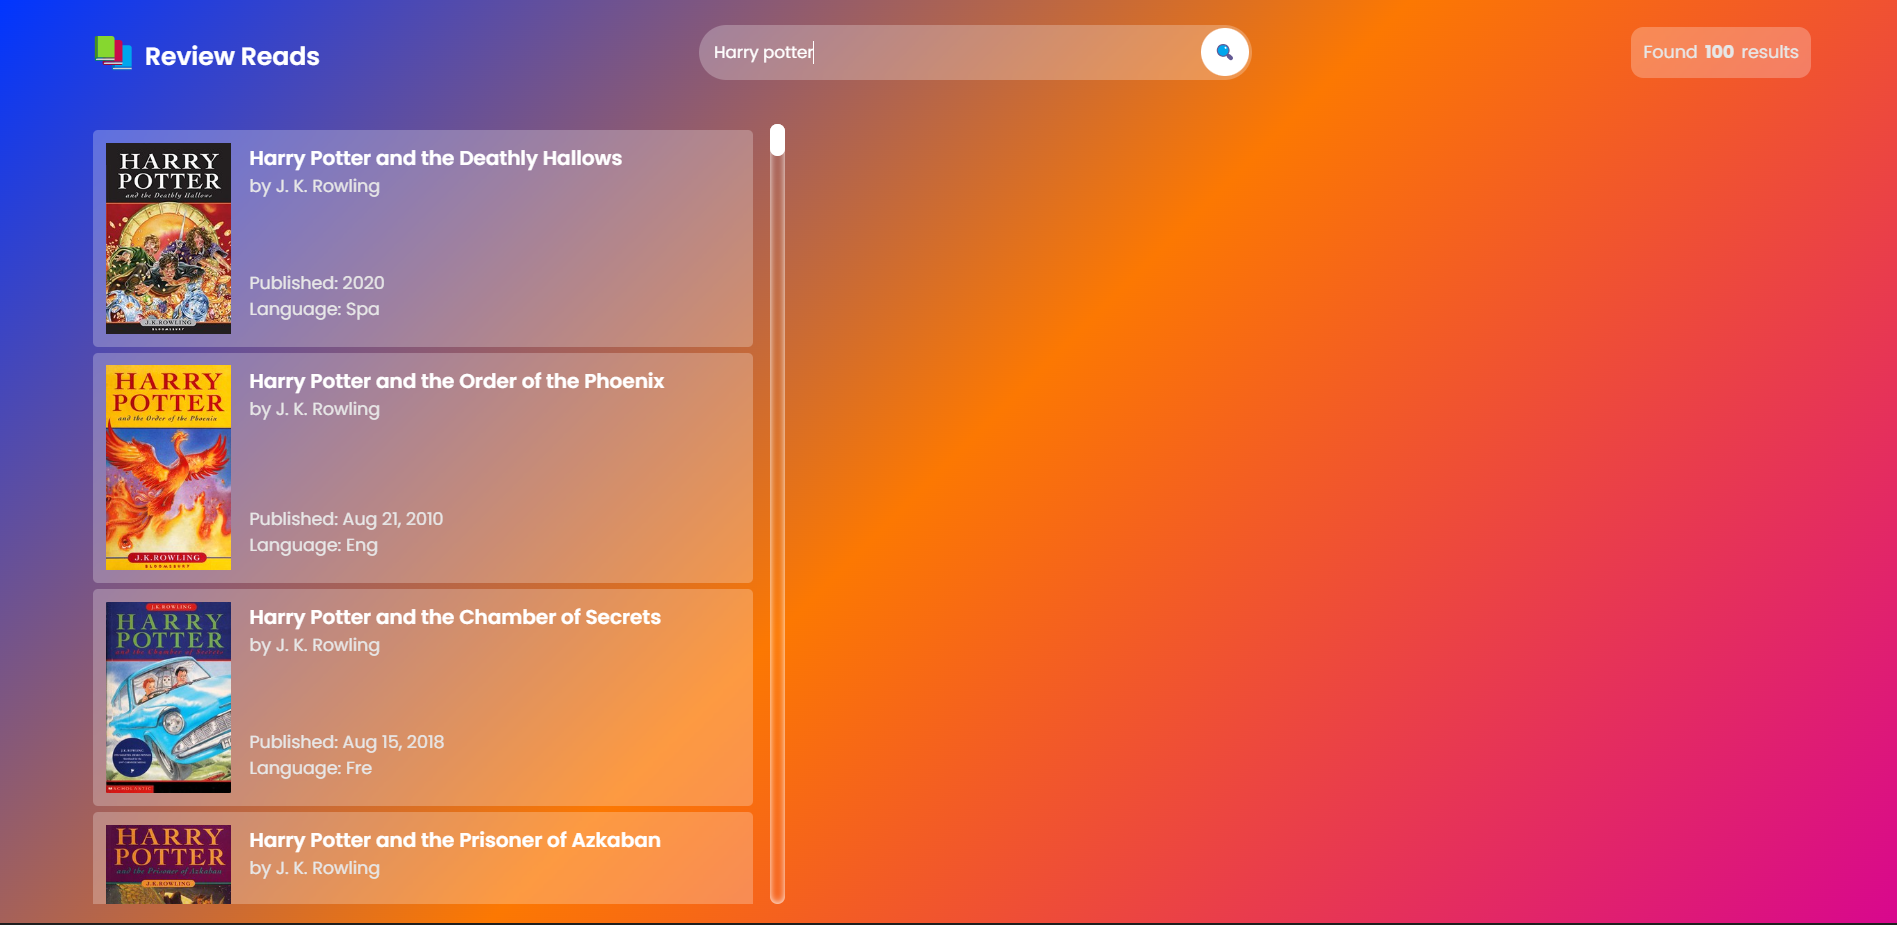
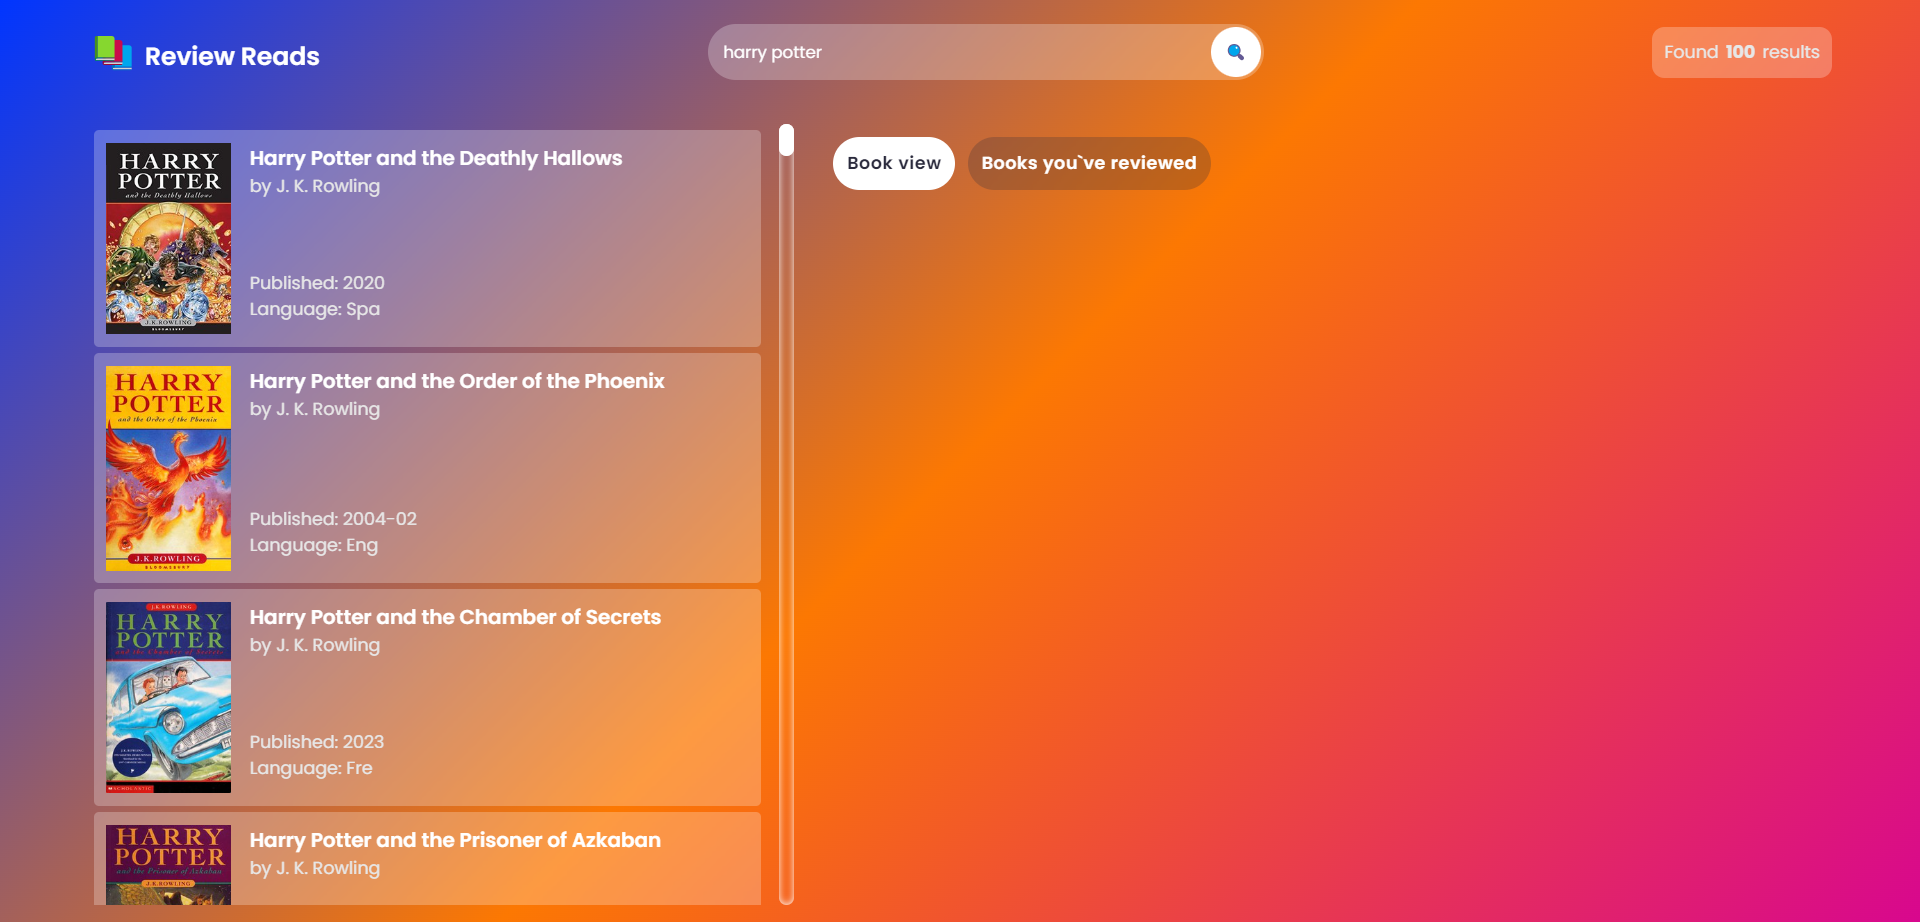
refactored to achieve more composition

diff --git a/src/ui/ReviewContainer.jsx b/src/ui/ReviewContainer.jsx
@@ -1,6 +1,6 @@
 import { useState } from "react";
-import Button from "./Button";
 import ViewBooks from "./ViewBooks";
+import ReviewTabs from "./ReviewTabs";
 
 const ReviewContainer = ({ selectedBook }) => {
     const [isVisited, setIsVisited] = useState(false);
@@ -9,22 +9,7 @@ const ReviewContainer = ({ selectedBook }) => {
 
     return (
         <div className="review-container">
-            <div className="review-tabs">
-                <Button
-                    nameClass={isVisited ? "btn-primary" : "active btn-primary"}
-                    handleClick={handleVisit}
-                >
-                    Book view
-                </Button>
-                <Button
-                    nameClass={
-                        !isVisited ? "btn-primary" : "active btn-primary"
-                    }
-                    handleClick={handleVisit}
-                >
-                    Books you`ve reviewed
-                </Button>
-            </div>
+            <ReviewTabs onVisit={handleVisit} isVisited={isVisited} />
             {!isVisited && Object.keys(selectedBook).length > 0 && (
                 <ViewBooks selectedBook={selectedBook} />
             )}

diff --git a/src/style.css b/src/style.css
@@ -90,6 +90,7 @@ header h3::first-letter{
     letter-spacing: .5px;
     font-family: 'Poppins', sans-serif;
 }
+.view-footer button,
 .btn-primary.active{
     color: var(--color-text-primary);
     background-color: var(--color-primary);
@@ -235,10 +236,10 @@ aside > div::-webkit-scrollbar-thumb
     padding: 1rem;
 }
 .details-meta{
-    margin-top: auto;
-    padding: 2rem 0;
+    margin-top: 1rem;
+    padding: 1rem 0;
 }
-.review-stars{
+.view-footer{
     position: absolute;
     bottom: 0%;
     right: 0%;
@@ -248,17 +249,19 @@ aside > div::-webkit-scrollbar-thumb
     border-radius: .5rem;
     display: flex;
     justify-content: center;
-    flex-direction: row-reverse;
     align-items: center;
 }
-.review-stars button{
-    margin-right: 1rem;
+.view-footer button{
+    margin-left: 1rem;
+}
+.review-stars{
+    display: flex;
+    flex-direction: row-reverse;
 }
 .review-stars span{
     font-size: 2rem;
     margin-right: .5rem;
     cursor: pointer;
-    display: flex;
 }
 .review-stars span:hover,
 .review-stars span:hover ~ span{

diff --git a/src/ui/ReviewTabs.jsx b/src/ui/ReviewTabs.jsx
@@ -1,0 +1,22 @@
+import Button from "./Button";
+
+const ReviewTabs = ({ onVisit, isVisited }) => {
+    return (
+        <div className="review-tabs">
+            <Button
+                nameClass={isVisited ? "btn-primary" : "active btn-primary"}
+                handleClick={onVisit}
+            >
+                Book view
+            </Button>
+            <Button
+                nameClass={!isVisited ? "btn-primary" : "active btn-primary"}
+                handleClick={onVisit}
+            >
+                Books you`ve reviewed
+            </Button>
+        </div>
+    );
+};
+
+export default ReviewTabs;

diff --git a/src/ui/ViewBooks.jsx b/src/ui/ViewBooks.jsx
@@ -1,5 +1,5 @@
-import ReviewStars from "./ReviewStars";
 import ViewBookDetails from "./ViewBookDetails";
+import ViewBookFooter from "./ViewBookFooter";
 
 const ViewBooks = ({ selectedBook }) => {
     return (
@@ -26,7 +26,7 @@ const ViewBooks = ({ selectedBook }) => {
                     </>
                 ) : null}
             </div>
-            <ReviewStars />
+            <ViewBookFooter />
         </div>
     );
 };

diff --git a/src/ui/ViewBookDetails.jsx b/src/ui/ViewBookDetails.jsx
@@ -6,7 +6,7 @@ const ViewBookDetails = ({ title, author, publishDate, language }) => {
             <div className="details-meta">
                 {publishDate && (
                     <p>
-                        📆 Published on{" "}
+                        📆 Published:{" "}
                         {Array.isArray(publishDate)
                             ? publishDate[0]
                             : publishDate}

diff --git a/src/ui/ReviewStars.jsx b/src/ui/ReviewStars.jsx
@@ -1,5 +1,3 @@
-import Button from "./Button";
-
 const ReviewStars = () => {
     return (
         <div className="review-stars">
@@ -8,8 +6,6 @@ const ReviewStars = () => {
             <span>&#9733;</span>
             <span>&#9733;</span>
             <span>&#9733;</span>
-
-            <Button nameClass={"btn-primary"}>Add to list</Button>
         </div>
     );
 };

diff --git a/src/ui/ViewBookFooter.jsx b/src/ui/ViewBookFooter.jsx
@@ -1,0 +1,13 @@
+import Button from "./Button";
+import ReviewStars from "./ReviewStars";
+
+const ViewBookFooter = () => {
+    return (
+        <div className="view-footer">
+            <ReviewStars />
+            <Button nameClass={"btn-primary"}>Add to list</Button>
+        </div>
+    );
+};
+
+export default ViewBookFooter;
